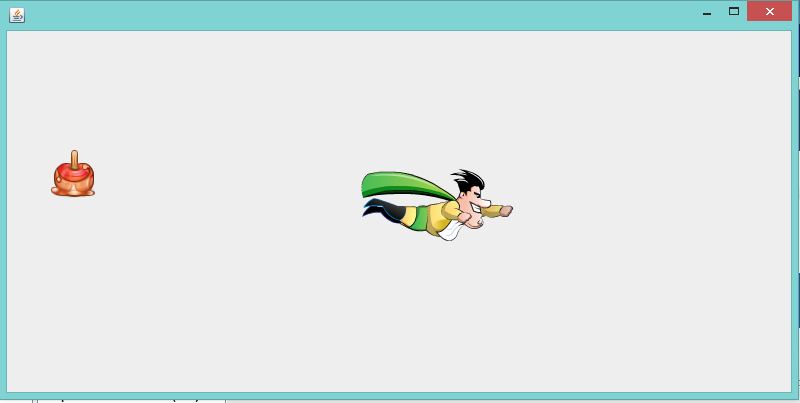
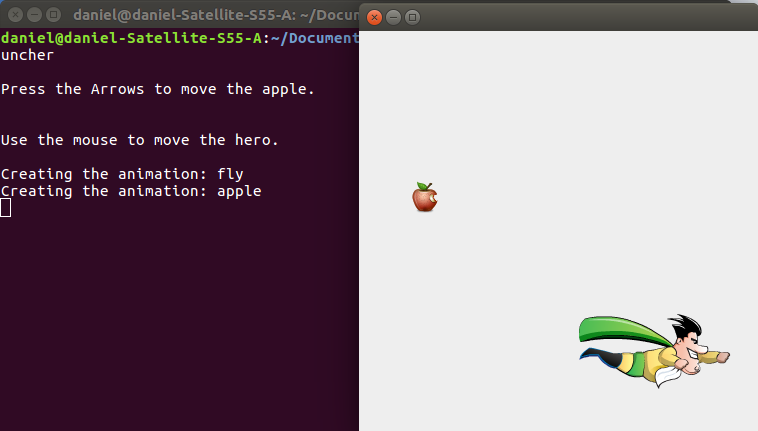
Add some instructions and update the readme.

diff --git a/src/model/Animation.java b/src/model/Animation.java
@@ -21,7 +21,7 @@ public class Animation {
     private TheadsAnimations actions;
 
     public Animation(String nombre, int tam, Window ventana) {
-        System.out.println("Creating the animation"+ nombre);
+        System.out.println("Creating the animation: "+ nombre);
         this.name = nombre;
         this.sizeSprint = tam;
         this.window = ventana;
@@ -38,7 +38,6 @@ public class Animation {
     public void loadpathsImagesAnimation(String nombre, int tam) {
         for (int i = 0; i < sizeSprint; i++) {
             pathsImages[i] = (i < 10) ? "../imagenes/" + nombre + "_000" + i + ".png" : "../imagenes/" + nombre + "_00" + i + ".png";
-            System.out.println(pathsImages[i]);
         }
     }
 

diff --git a/src/View/Window.java b/src/View/Window.java
@@ -21,9 +21,11 @@ public class Window extends JFrame implements MouseMotionListener, KeyListener {
 
     private AnimationController controller;
     private BufferStrategy myBuffer;
-    private static final int widthWindow = 800, heightWindow = 400;
+    private static final int widthWindow = 400, heightWindow = 400;
 
     public Window(AnimationController aux) {
+        System.out.println("\nPress the Arrows to move the apple.\n");
+        System.out.println("\nUse the mouse to move the hero.\n");
         this.controller = aux;
 
         //Add listeners

diff --git a/README.md b/README.md
@@ -14,6 +14,4 @@ $ java Launcher
 
 ```
 
-
 ![Alt Screenshot](screenshots/screen1.png?raw=true "Screenshot Animation Java")
-![Alt Screenshot](screenshots/screen2.png?raw=true "Screenshot Animation Java")
